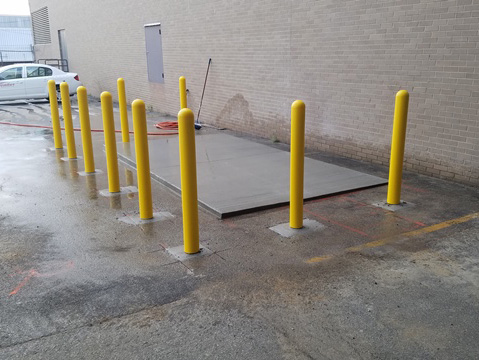
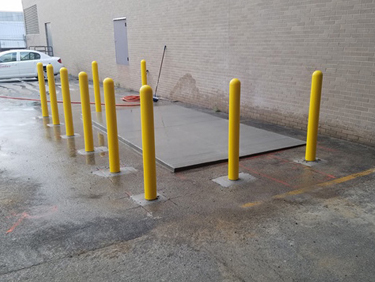
image size fixes

diff --git a/src/static/css/service.css b/src/static/css/service.css
@@ -64,10 +64,6 @@ margin:0px 0px 40px 0px;
 padding:0px 15px 0px 15px;
 }
 
-.service_tri_image{
-width:100%;
-}
-
 .service_tri_image_layout{
 display: flex;
 flex-wrap: wrap;
